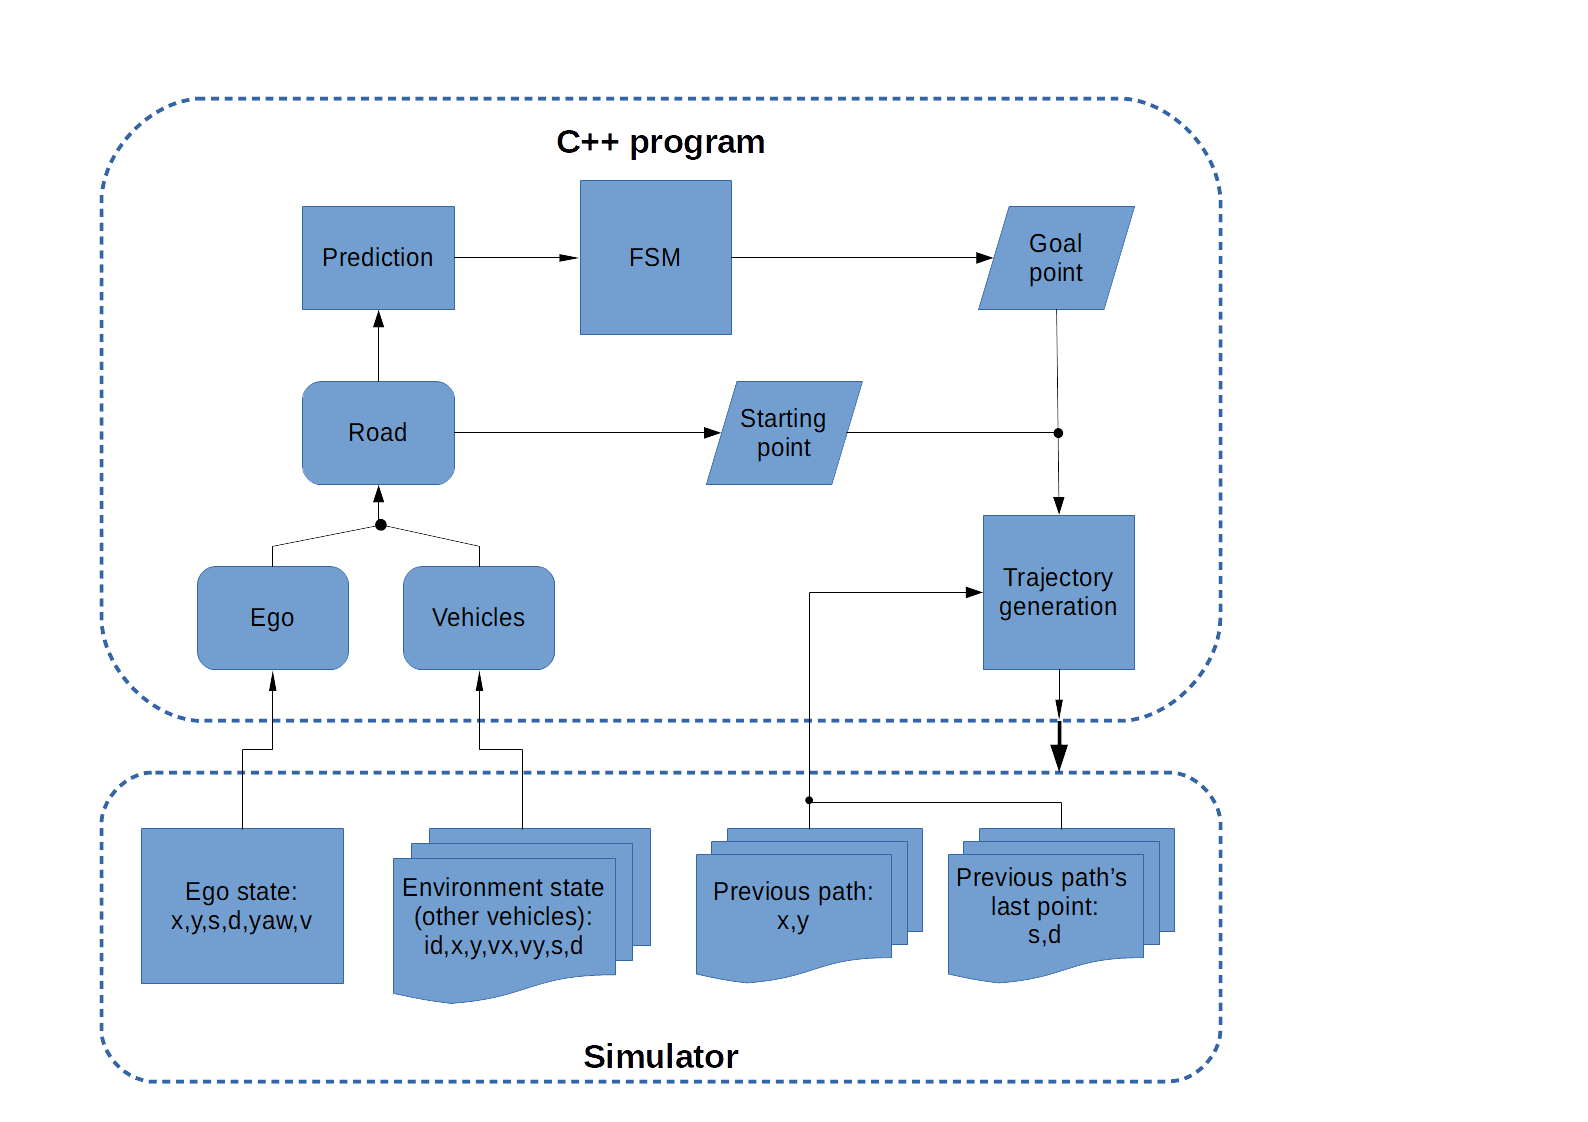
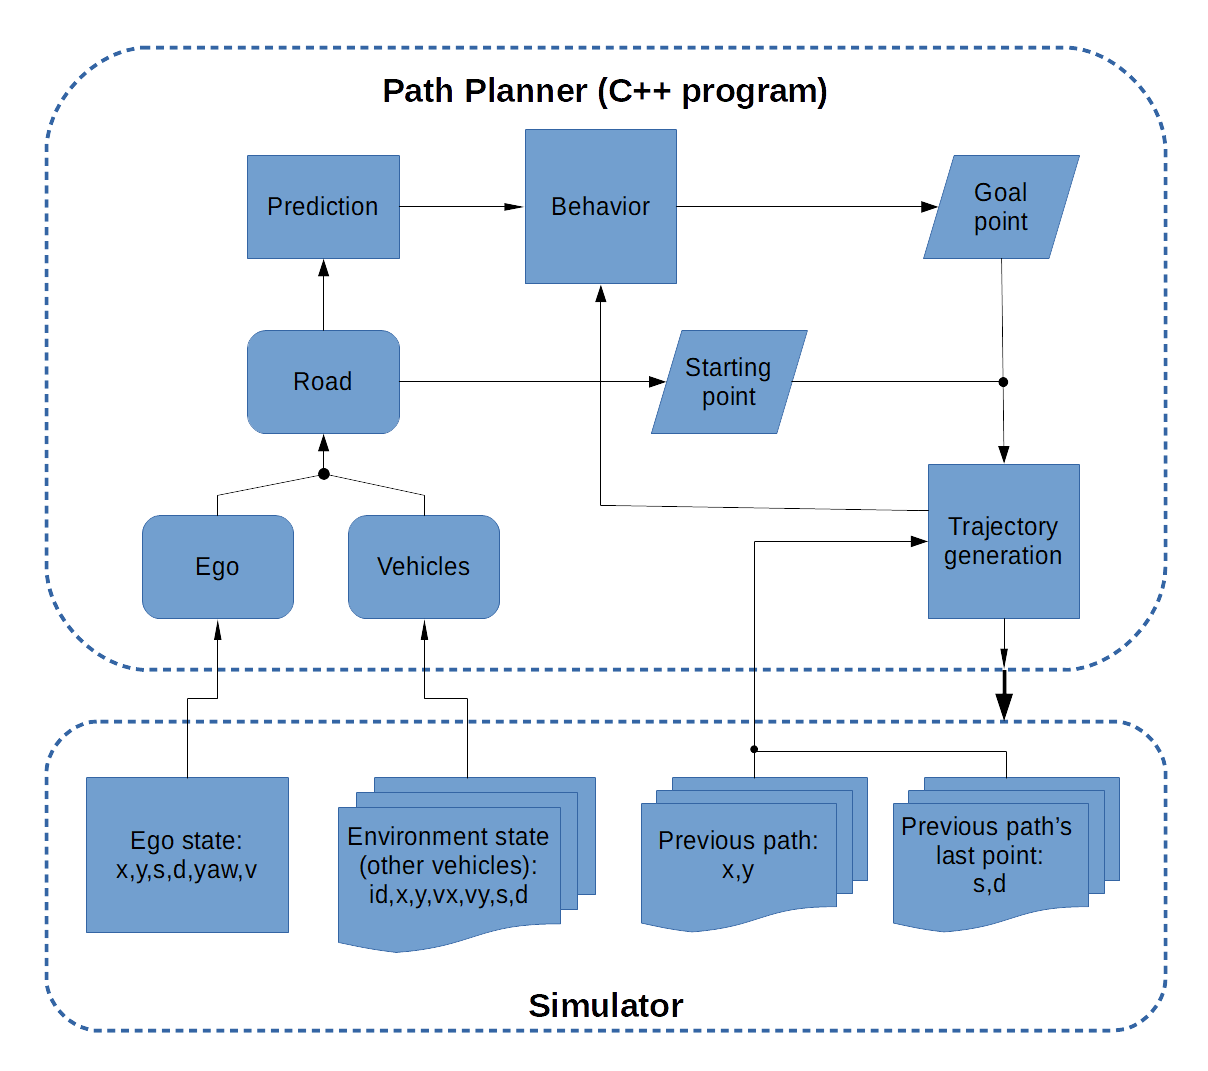
Readme update

diff --git a/README.md b/README.md
@@ -1,20 +1,64 @@
-# CarND-Path-Planning-Project
-Self-Driving Car Engineer Nanodegree Program
-   
+# Path Planning Project
+In this project I designed and developed the software and the algorithms of a path planner for an autonomous driving car.
+The code is written in C++ and the program communicates with a simulator provided by Udacity where there are several vehicles driving on a three lanes road.
+This work is part of the Self-Driving Car Engineer Nanodegree Program at Udacity.
+
 ---
 
 [//]: # (Image References)
 [UML]: ./img/UML-diagram.png
 [arch]: ./img/software-architecture.png
+[u]: ./img/u.gif
 
-## UML - *In progress*
-
-![UML diagram][UML]
+*Project in progress*
 
 
 ## Software Architecture - *In progress*
 
+In the following picture we can see a high-level diagram of the modules required and the way they relate to each other:
+
 ![Software Architecture][arch]
+
+Basically, the simulator sends sensor data of the ego vehicle and the surrounding environment. With this I model the road with the kinematic state of each vehicle sensed and predict how this is going to change in the near future using a kinematic model. Based on that, the behavior model loops over several goal points and generates trajectories. For each trajectory, it calculates a cost, which represents how safe it is. The best one is sent back to the simulator
+
+
+## UML - *In progress*
+
+Here we can see the classes that are implemented (*in progress*) to accomplish the mission.
+
+![UML diagram][UML]
+
+
+## Map
+
+A series of waypoints are also provided which allow as to create a global map of the road. 
+
+Each waypoint in the list contains  [x,y,s,dx,dy] values. x and y are the waypoint's map coordinate position, the s value is the distance along the road to get to that waypoint in meters, the dx and dy values define the unit normal vector pointing outward of the highway loop.
+
+The highway's waypoints loop around so the frenet s value, distance along the road, goes from 0 to 6945.554.
+
+### Coordinate Transform
+
+In order to convert from Cartesian to Frenet coordinate system and vice-versa, a new algorithm is designed.
+
+Let ![u][u] p = (x,y) 
+be the point in cartesian coordinates, and 
+q = (qx(s), qy(s))
+the parametric formula of the curve.
+Also, let s* be the parameter for which q(s*) is closest to p, then the
+following condition must be satisfied:
+(p - q(s*)) q'(s*) = 0  (1)
+which means that the distance between p and q(s*) is perpendicular to q'(s*)
+where q'(s*) is actually the tangent vector of the curve at point s*.
+Let theta be the curve angle at point s, then
+q'(s) = (cos(theta), sin(theta))
+The condition (1) could have multiple roots in a global domain, but only one is
+the closest point to p. 
+However, it can be shown that if s* is unique and we constrain to a local domain around
+the closest waypoint to p, then (1) is sufficient to find a unique s*.
+
+
+
 
 
 ### Simulator.
